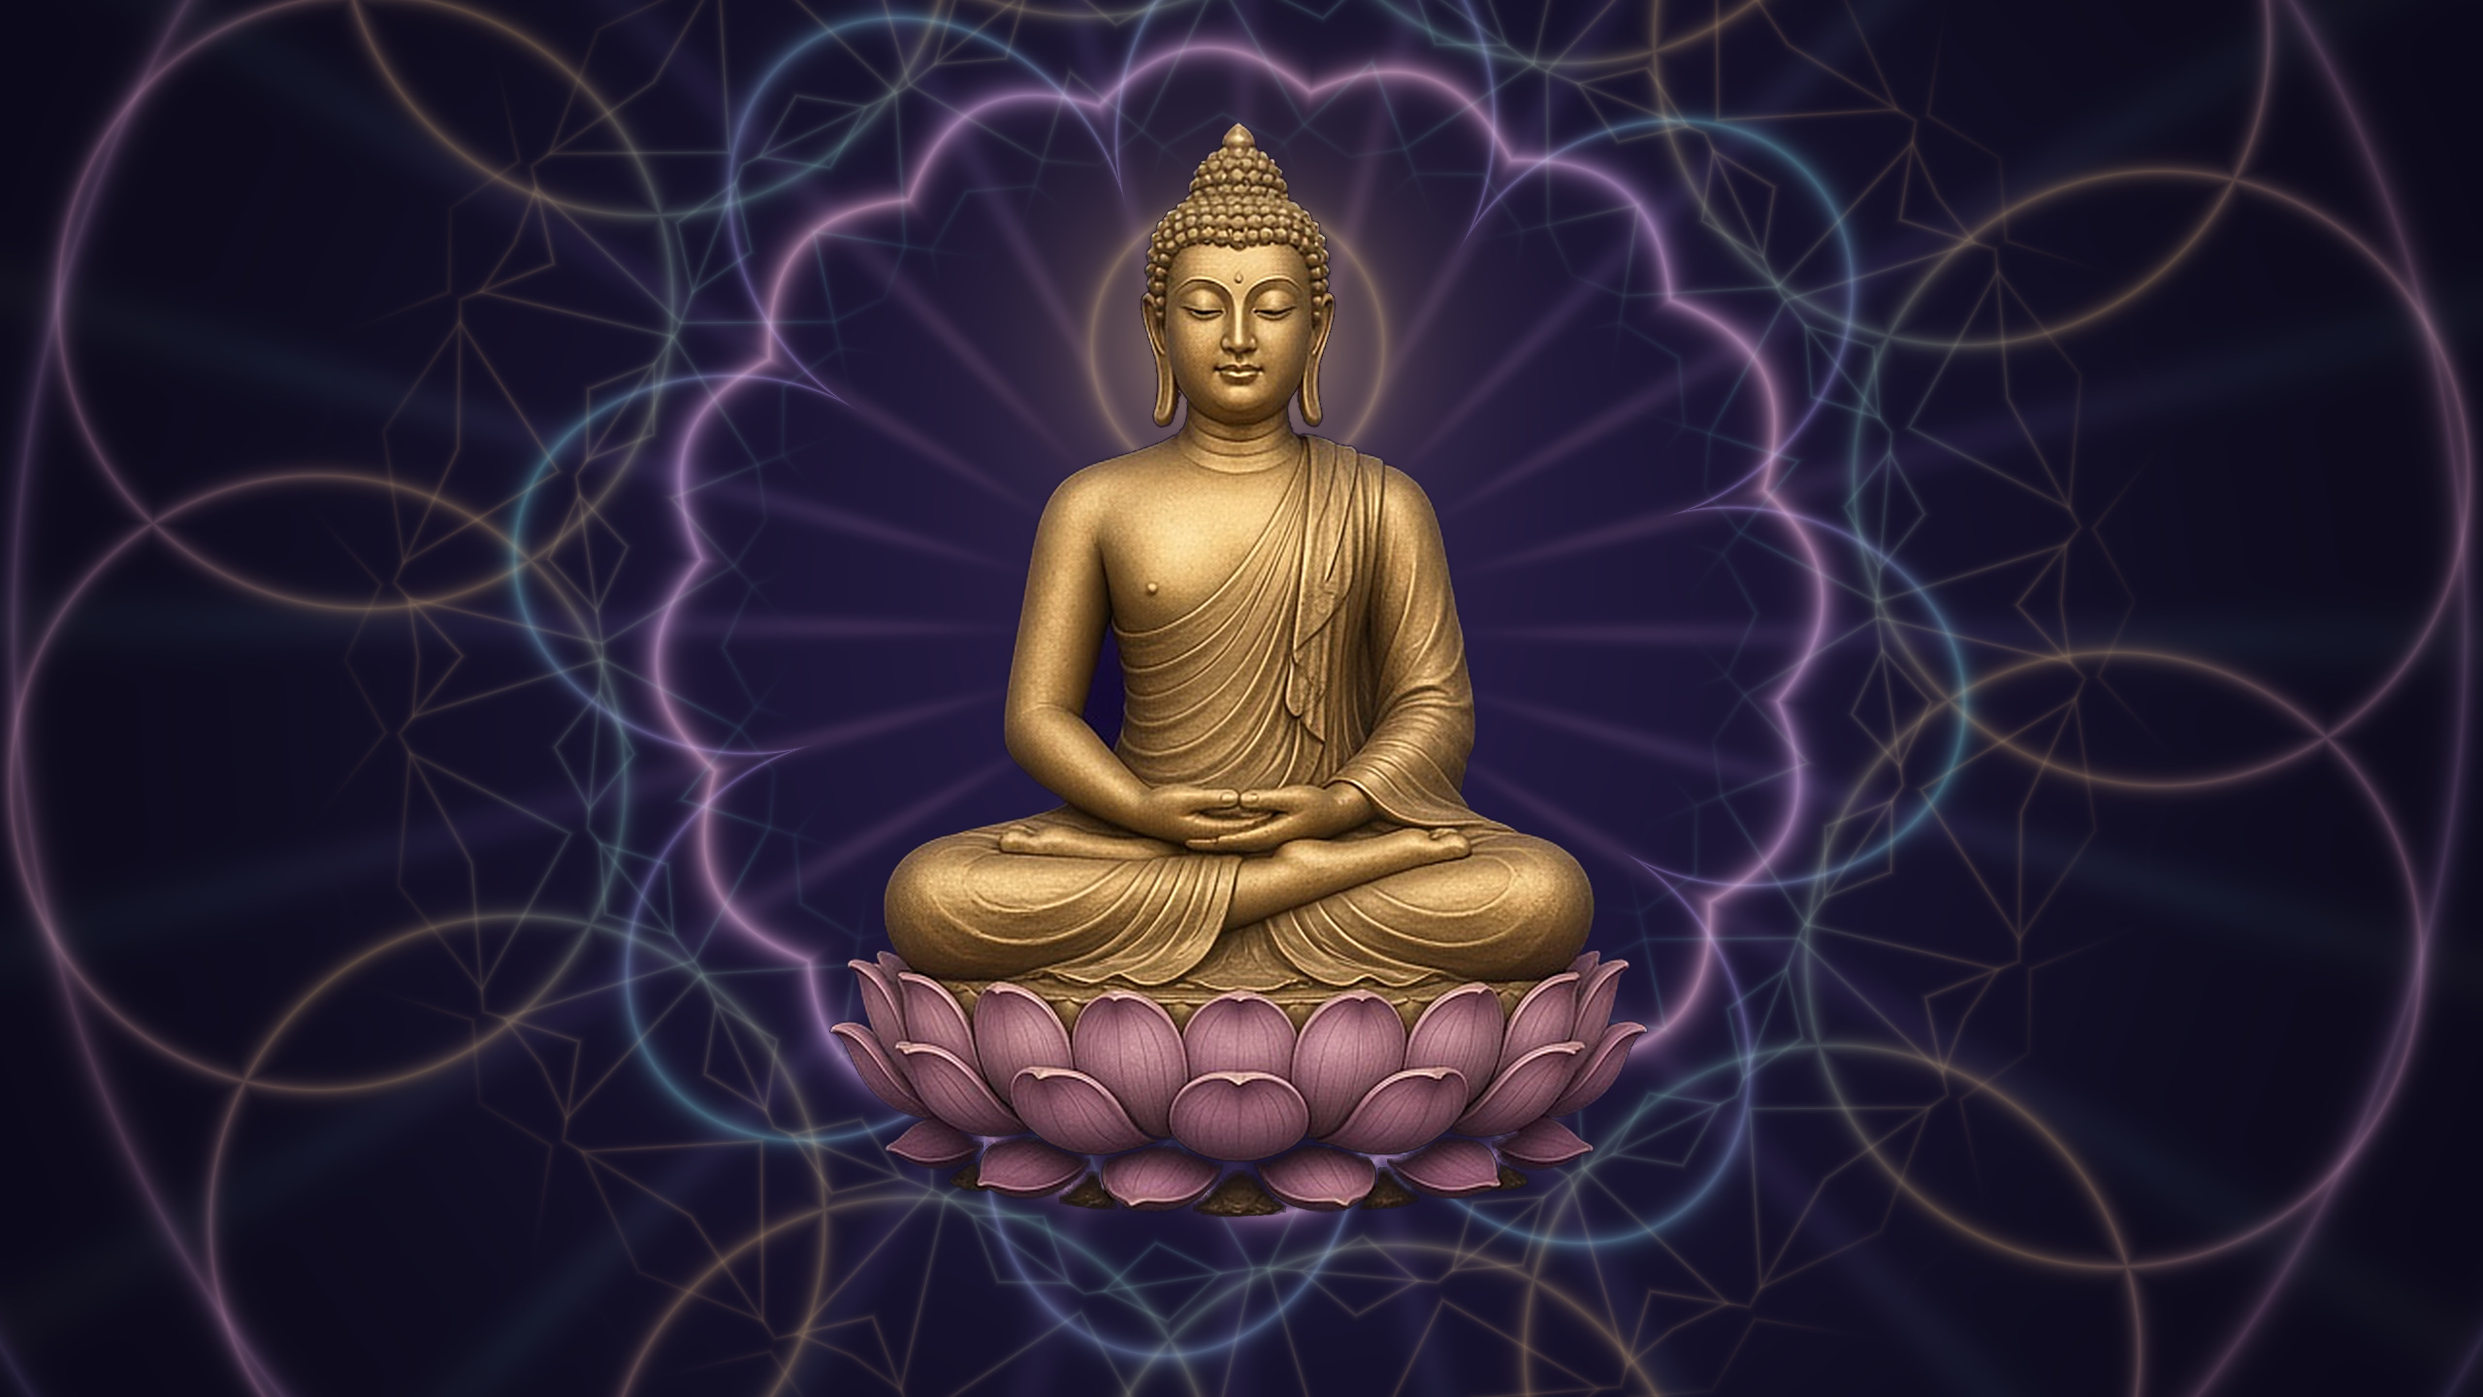
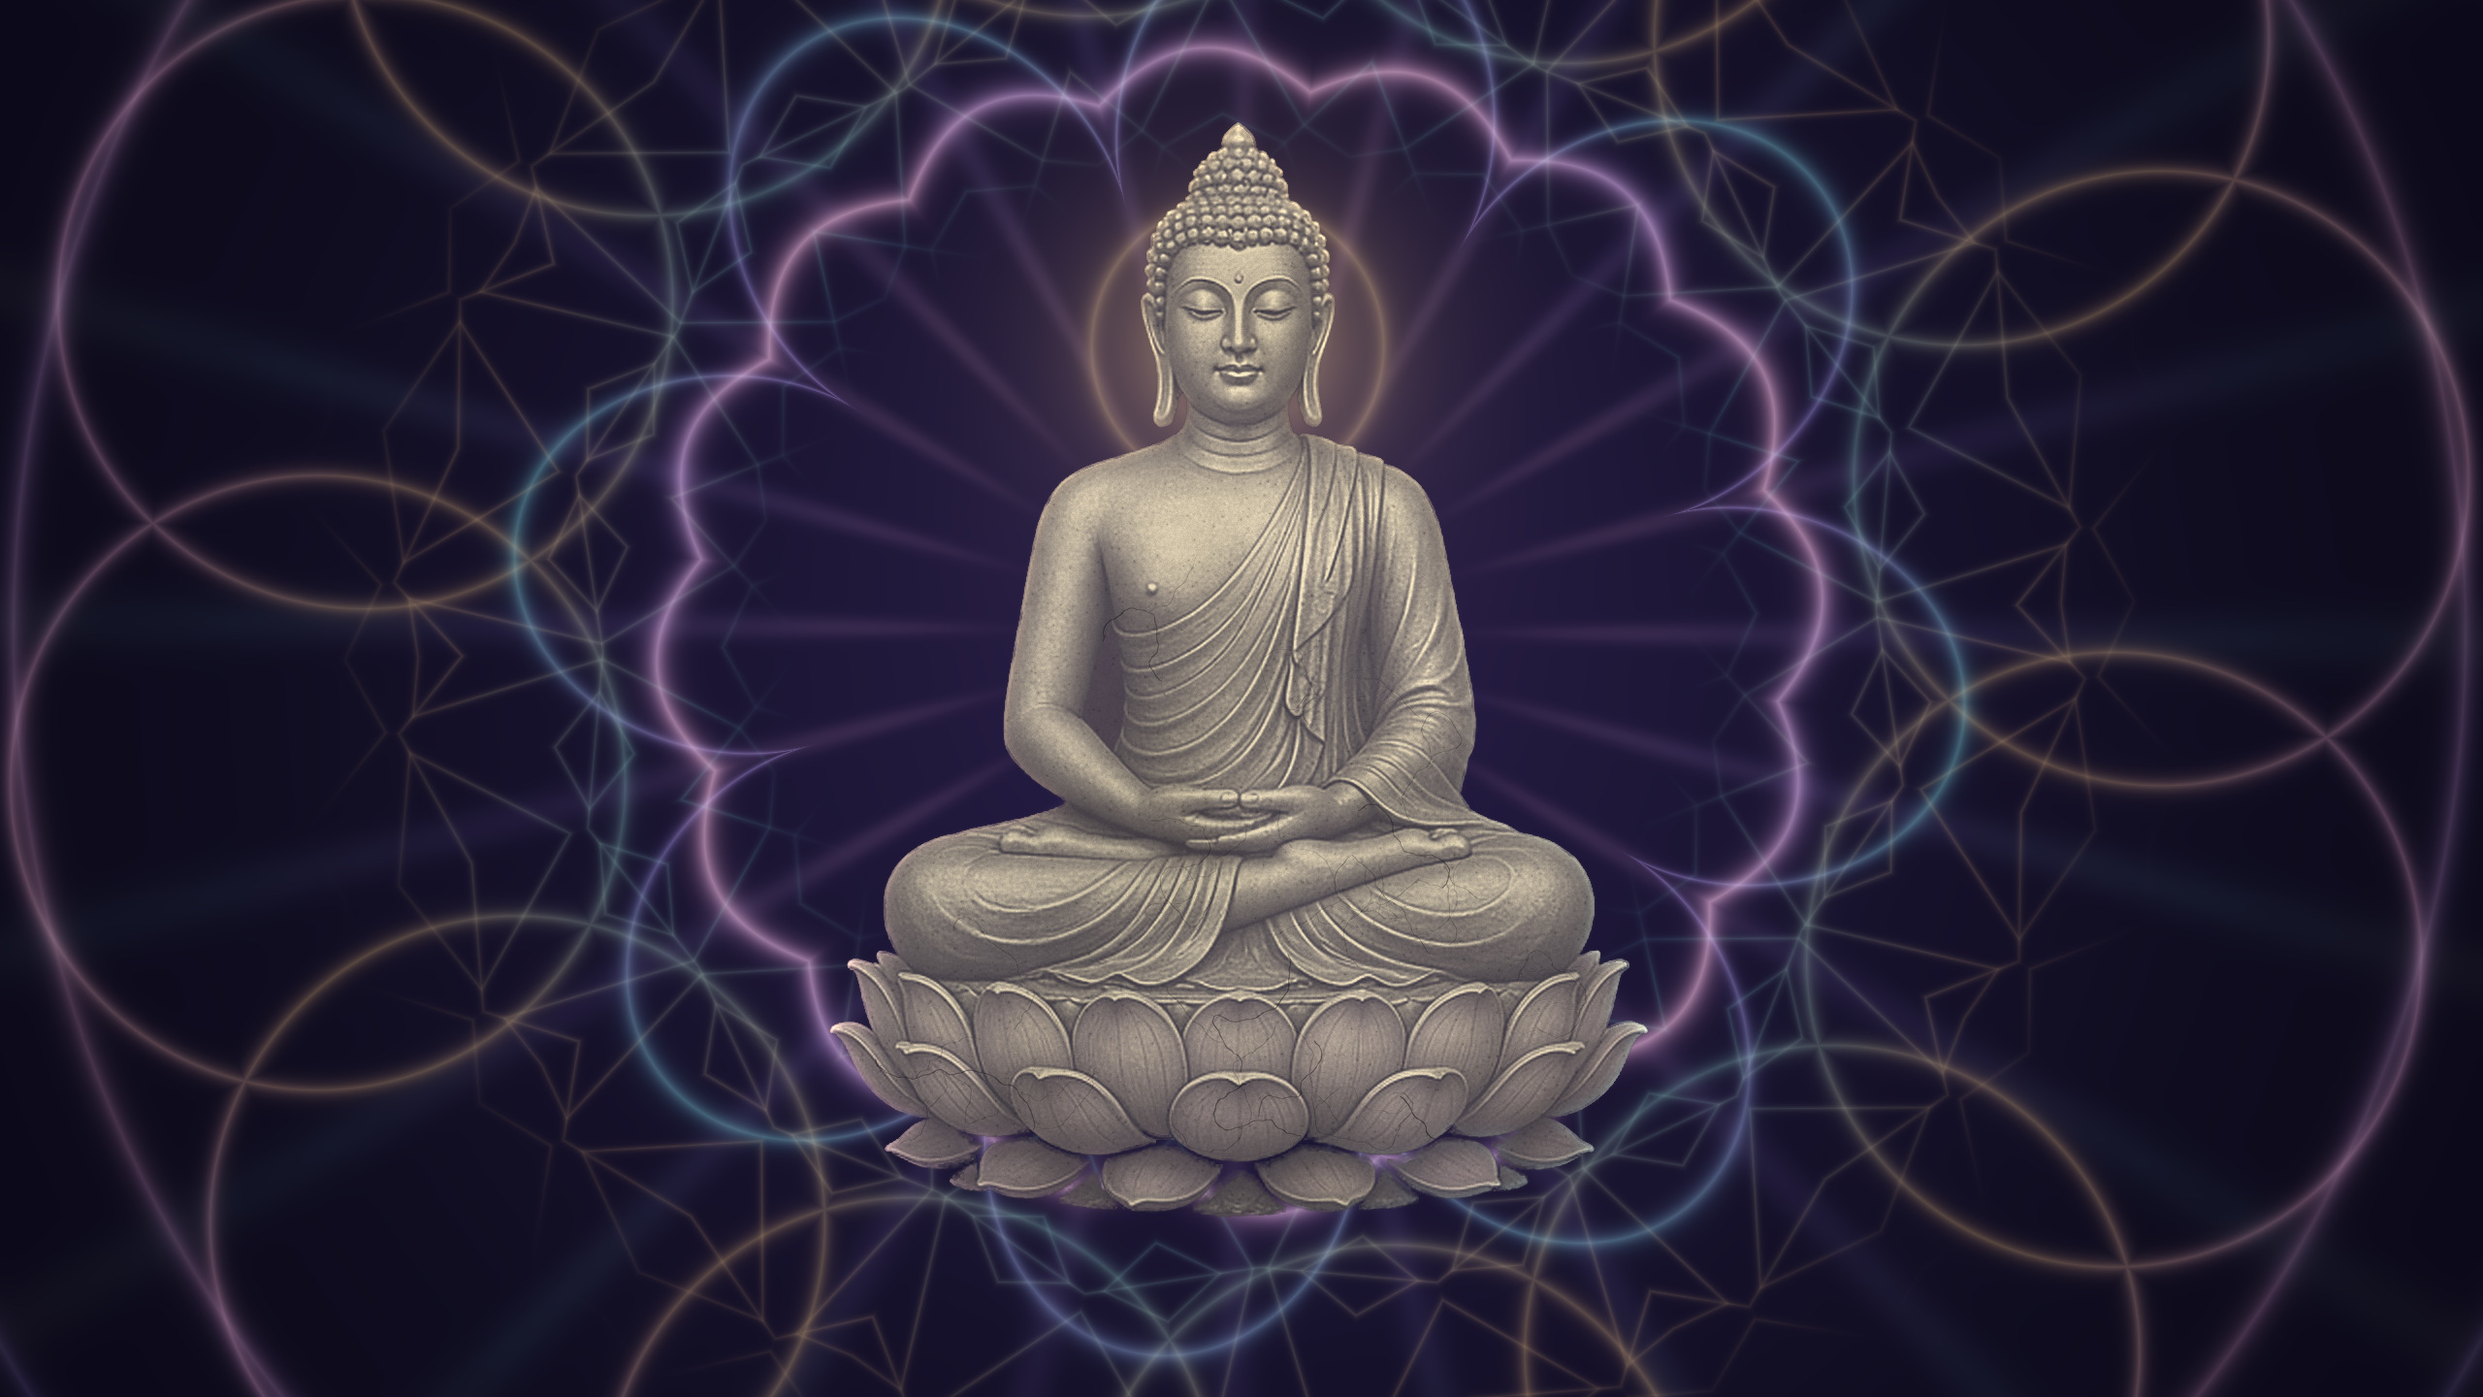
M6: stone Buddha - weathered sandstone with hairline cracks, same silhouette; art pipeline in theme/src

Changed region(s): [[0.3125, 0.0938, 0.6562, 0.875]]

diff --git a/theme/src/stone.py b/theme/src/stone.py
@@ -1,0 +1,110 @@
+# stone.py: turn the gilded Buddha (buddha-figure-gold.png) into a carved,
+# weathered stone statue with subtle hairline cracks, keeping the exact same
+# silhouette/alpha so the aura and layout do not move. Deterministic (seeded).
+import numpy as np
+from PIL import Image, ImageDraw, ImageFilter
+rng = np.random.default_rng(108)
+src = Image.open('buddha-figure-gold.png').convert('RGBA')
+W, H = src.size
+a = np.asarray(src).astype(np.float32) / 255
+rgb, al = a[..., :3], a[..., 3]
+
+def blur(x, r):
+    im = Image.fromarray(np.clip(x * 255, 0, 255).astype(np.uint8))
+    return np.asarray(im.filter(ImageFilter.GaussianBlur(r))).astype(np.float32) / 255
+
+def fbm(oct=6, base=4, seed=0):
+    r = np.random.default_rng(seed); out = np.zeros((H, W), np.float32); amp = 1; tot = 0
+    for o in range(oct):
+        n = base * 2 ** o
+        g = r.random((n * H // W + 2, n + 2)).astype(np.float32)
+        im = Image.fromarray((g * 255).astype(np.uint8)).resize((W, H), Image.BICUBIC)
+        out += amp * np.asarray(im).astype(np.float32) / 255; tot += amp; amp *= 0.55
+    return out / tot
+
+# carving shading from the original luminance (gold is bright: flatten a bit)
+L = rgb @ np.array([0.30, 0.55, 0.15], np.float32)
+L = (L - 0.08) / 0.78
+L = np.clip(L, 0, 1) ** 0.95
+# ambient occlusion: deepen folds/crevices like dust-filled stone
+ao = np.clip(L - blur(L, 6) + 0.5, 0, 1)
+shade = np.clip(0.18 + 0.82 * L, 0, 1) * (0.78 + 0.44 * ao)
+
+# stone albedo: warm grey sandstone, cool indigo in shadow, faint rose in lotus
+lotus = np.clip((rgb[..., 2] - rgb[..., 1]) * 6, 0, 1)        # pink petals have B>G
+lotus = blur(lotus, 2)
+light = np.array([0.82, 0.77, 0.67], np.float32)
+dark = np.array([0.20, 0.18, 0.24], np.float32)
+rose = np.array([0.80, 0.68, 0.70], np.float32)
+hi = (1 - lotus[..., None]) * light + lotus[..., None] * rose
+s = shade[..., None]
+col = dark * (1 - s) + hi * s
+
+# texture: mottling, weathering stains, granite grain
+yy0 = np.linspace(0, 1, H, dtype=np.float32)[:, None]
+mott = fbm(6, 3, 1); stain = fbm(4, 2, 2); fine = fbm(3, 64, 3)
+col *= (0.90 + 0.20 * mott)[..., None]
+col *= (1 - 0.10 * np.clip((stain - 0.55) * 4, 0, 1))[..., None]
+col += np.array([0.02, 0.015, -0.01]) * (stain[..., None] - 0.5)
+grain = rng.normal(0, 1, (H, W)).astype(np.float32)
+grain = 0.6 * grain + 0.4 * (blur((grain * 0.15 + 0.5), 0.8) - 0.5) / 0.15
+col *= (1 + 0.035 * grain + 0.05 * (fine - 0.5))[..., None]
+# weathering: grime gathers toward the base
+col *= (1 - 0.10 * np.clip((yy0 - 0.45) * 1.8, 0, 1) * (0.6 + 0.8 * stain))[..., None]
+# pits: tiny dark erosion spots
+pits = (rng.random((H, W)) > 0.9980).astype(np.float32)
+pits = blur(pits, 0.9) * 2.2
+col *= (1 - 0.45 * np.clip(pits, 0, 1))[..., None]
+
+# hairline cracks: branching random walks, drawn 3x and downsampled
+S = 3
+crack = Image.new('L', (W * S, H * S), 0); cd = ImageDraw.Draw(crack)
+lit = Image.new('L', (W * S, H * S), 0); ld = ImageDraw.Draw(lit)
+solid = al > 0.98
+face = (330, 120, 530, 330)  # keep the face serene: no cracks start there
+def ok(x, y):
+    xi, yi = int(x), int(y)
+    if not (0 <= xi < W and 0 <= yi < H) or not solid[yi, xi]: return False
+    return not (face[0] < xi < face[2] and face[1] < yi < face[3])
+def walk(x, y, ang, n, wdt, depth):
+    pts = [(x, y)]
+    for i in range(n):
+        ang += rng.normal(0, 0.35)
+        st = rng.uniform(2.5, 5.5)
+        nx, ny = x + np.cos(ang) * st, y + np.sin(ang) * st
+        if not ok(nx, ny): break
+        x, y = nx, ny; pts.append((x, y))
+        if depth < 2 and rng.random() < 0.06:
+            walk(x, y, ang + rng.choice([-1, 1]) * rng.uniform(0.5, 1.1), int(n * 0.45), wdt * 0.7, depth + 1)
+    if len(pts) > 2:
+        P = [(px * S, py * S) for px, py in pts]
+        cd.line(P, fill=int(255 * min(1, wdt)), width=max(1, round(wdt * S * 0.9)), joint='curve')
+        ld.line([(px + S * 0.9, py + S * 0.9) for px, py in P], fill=90, width=max(1, round(wdt * S * 0.6)))
+starts = 0; tries = 0
+while starts < 16 and tries < 5000:
+    tries += 1
+    x, y = rng.uniform(0, W), rng.uniform(0, H)
+    if not ok(x, y): continue
+    walk(x, y, rng.uniform(0, 2 * np.pi), int(rng.uniform(25, 70)), rng.uniform(0.7, 1.15), 0)
+    starts += 1
+cr = np.asarray(crack.resize((W, H), Image.LANCZOS)).astype(np.float32) / 255
+lt = np.asarray(lit.resize((W, H), Image.LANCZOS)).astype(np.float32) / 255
+cr = np.clip(cr, 0, 1) * (0.55 + 0.45 * mott)      # cracks fade in and out
+col = col * (1 - 0.55 * cr[..., None]) + 0.10 * lt[..., None] * (1 - cr[..., None])
+
+# soft aura light catching the stone edges: saffron from above, lotus pink + teal
+edge = np.clip(al - blur(al, 7), 0, 1) * 2.2
+yy = np.linspace(0, 1, H, dtype=np.float32)[:, None]
+xx = np.linspace(-1, 1, W, dtype=np.float32)[None, :]
+saff = np.array([0.90, 0.70, 0.35]); pink = np.array([0.91, 0.63, 0.77]); teal = np.array([0.45, 0.78, 0.77])
+tint = saff * (1 - yy)[..., None] + (pink * np.clip(-xx, 0, 1)[..., None] + teal * np.clip(xx, 0, 1)[..., None]) * yy[..., None]
+col += 0.22 * (edge[..., None] * tint)
+col += 0.05 * np.clip(1 - yy * 1.6, 0, 1)[..., None] * saff * s   # faint warm top light
+
+# erosion: slightly chipped silhouette (tiny alpha bites only at the edge)
+chip = fbm(3, 48, 5)
+edge_zone = (al > 0.02) & (al < 0.999) | (blur(al, 1.5) < 0.97)
+al2 = np.where(edge_zone, al * np.clip(1.6 - 1.4 * chip, 0.45, 1), al)
+
+out = np.dstack([np.clip(col, 0, 1), np.clip(al2, 0, 1)])
+Image.fromarray((out * 255 + 0.5).astype(np.uint8), 'RGBA').save('buddha-figure.png', optimize=True)

diff --git a/theme/src/aura.py b/theme/src/aura.py
@@ -1,0 +1,90 @@
+import numpy as np, sys
+from PIL import Image
+TAU=6.283185307
+SAFF=np.array([0.93,0.71,0.38]); PINK=np.array([0.92,0.60,0.76]); VIOL=np.array([0.60,0.50,0.92]); TEAL=np.array([0.38,0.80,0.80])
+def smooth(a,b,x):
+    t=np.clip((x-a)/(b-a),0,1); return t*t*(3-2*t)
+def pal(x):
+    x=(x%1.0)*4.0
+    cs=[SAFF,PINK,VIOL,TEAL,SAFF]
+    i=np.floor(x).astype(int); f=x-i; f=f*f*(3-2*f)
+    out=np.zeros(x.shape+(3,))
+    for k in range(4):
+        m=(i==k)[...,None]
+        out+=m*(cs[k]*(1-f[...,None])+cs[k+1]*f[...,None])
+    return out
+def rot(v,a):
+    c,s=np.cos(a),np.sin(a); return np.stack([c*v[...,0]-s*v[...,1], s*v[...,0]+c*v[...,1]],-1)
+def aura(W,H,t,cx,cy,unit,hx,hy):
+    yy,xx=np.mgrid[0:H,0:W].astype(np.float32)+0.5
+    p=np.stack([(xx-cx)/unit,(yy-cy)/unit],-1)
+    r=np.linalg.norm(p,axis=-1); a=np.arctan2(p[...,1],p[...,0])
+    b=0.5-0.5*np.cos(TAU*t/5.0)           # breath 0..1, 5 s
+    s=1.0+0.045*b
+    # background: deep indigo night, lighter violet bloom around the figure
+    vg=np.linalg.norm(np.stack([(xx-W/2)/H,(yy-H*0.5)/H],-1),axis=-1)
+    bg=np.array([0.071,0.058,0.150])*(1-smooth(0.0,0.95,vg)[...,None])+np.array([0.030,0.026,0.070])*smooth(0.0,0.95,vg)[...,None]
+    bg=bg+np.array([0.10,0.06,0.16])[None,None]*np.exp(-r/0.38)[...,None]*(0.35+0.25*b)
+    rs=r/s
+    rot1=TAU*t/240.0
+    # 1 scalloped lotus ring (16 petals)
+    R1=0.40
+    d1=np.abs(rs-R1*(0.93+0.07*np.abs(np.cos(8*(a+rot1)))))
+    g1=np.exp(-d1*160)*0.9
+    # 2 big petal outlines (8 petals), counter-rotating
+    ang=a-rot1*2
+    pet=np.abs(np.cos(4*ang))**0.6
+    R2=0.50*(0.62+0.38*pet)
+    g2=np.exp(-np.abs(rs-R2)*190)*0.55*smooth(0.25,0.33,rs)
+    # 3 KIFS fractal filigree in an annulus
+    sec=TAU/12.0
+    fa=np.abs(np.mod(a+rot1*0.5,sec)-0.5*sec)
+    q=np.stack([rs*np.cos(fa),rs*np.sin(fa)],-1)*2.4
+    acc=np.zeros_like(r); sc=1.0
+    for i in range(5):
+        q=np.abs(q)-np.array([0.62,0.20+0.03*b])
+        q=rot(q,0.58+0.06*np.sin(TAU*t/60.0))
+        q=q*1.42; sc*=1.42
+        acc+=np.exp(-np.abs(q[...,1])/sc*260)*(0.55**i*0+0.35)
+    env=smooth(0.30,0.40,rs)*(1-smooth(0.52,0.66,rs))
+    g3=acc*env*0.75
+    # 3b flower-of-life garland: 12 circles strung on a ring, breathing outward
+    fsec=TAU/12.0
+    fa2=np.mod(a-rot1*1.5,fsec)-0.5*fsec
+    RF=0.64*s; rc=0.22
+    gf=np.zeros_like(r)
+    for off in (0.0,):
+        q2=np.stack([r*np.cos(fa2+off),r*np.sin(fa2+off)],-1)
+        for k in (-1,0,1):
+            cc=np.array([RF*np.cos(k*fsec),RF*np.sin(k*fsec)])
+            dd=np.abs(np.linalg.norm(q2-cc,axis=-1)-rc)
+            gf=np.maximum(gf,np.exp(-dd*220))
+    g3=g3+gf*0.45*(0.75+0.25*b)
+    # 4 soft rays
+    g4=((0.5+0.5*np.cos(24*a-rot1*3))**10)*np.exp(-rs*2.2)*0.18*smooth(0.12,0.3,rs)
+    # 5 outer breathing ripples
+    g5=(np.exp(-np.abs(rs-0.84)*150)*0.30+np.exp(-np.abs(rs-0.98)*160)*0.18)*(0.6+0.4*b)
+    # 6 nimbus behind the head
+    hd=np.linalg.norm(np.stack([(xx-hx)/unit,(yy-hy)/unit],-1),axis=-1)
+    g6=np.exp(-np.maximum(hd-0.06,0)/0.05)*0.45*(0.7+0.3*b)+np.exp(-np.abs(hd-0.10*s)*200)*0.35
+    hue=rs*0.9-t/80.0+0.05*np.sin(a*6+TAU*t/40.0)
+    col=bg.copy()
+    inten=0.55+0.45*b
+    col+= pal(hue)*(g1*inten)[...,None]*0.75
+    col+= pal(hue+0.25)*(g2*inten)[...,None]*0.7
+    col+= pal(hue+0.5)*(g3*inten)[...,None]*0.6
+    col+= pal(hue+0.1)*(g4)[...,None]
+    col+= pal(hue+0.6)*(g5)[...,None]*0.7
+    col+= SAFF*(g6*inten)[...,None]*0.8
+    # soft tonemap so nothing clips harshly
+    col=1-np.exp(-col*1.4)
+    return np.clip(col,0,1)
+if __name__=='__main__':
+    W,H=int(sys.argv[1]),int(sys.argv[2]); t=float(sys.argv[3]); out=sys.argv[4]
+    k=H/1440.0; ox=(W-2560*k)/2
+    c=aura(W,H,t,ox+1278*k,650*k,1440*k,ox+1276*k,357*k)
+    img=Image.fromarray((c*255+0.5).astype(np.uint8))
+    fig=Image.open('buddha-figure.png'); fj=eval(open('figure.json').read())
+    fs=fig.resize((round(fj['w']*k),round(fj['h']*k)),Image.LANCZOS)
+    img.paste(fs,(round(ox+fj['x']*k),round(fj['y']*k)),fs)
+    img.save(out)

diff --git a/theme/src/mask.py b/theme/src/mask.py
@@ -1,0 +1,39 @@
+from PIL import Image, ImageFilter, ImageDraw
+import numpy as np
+src = Image.open('buddha-src.jpg').convert('RGB')
+S = 2
+big = src.resize((src.width*S, src.height*S), Image.LANCZOS).filter(ImageFilter.UnsharpMask(radius=2.2, percent=60, threshold=2))
+a = np.asarray(big).astype(np.float32)
+R,G,B = a[...,0],a[...,1],a[...,2]
+f = R + G - 0.8*B
+alpha = np.clip((f - 12.0)/(40.0-12.0), 0, 1)
+hard = (alpha > 0.5)
+# flood fill background from border to fill holes
+m = Image.fromarray((hard*255).astype(np.uint8))
+# keep largest component + fill holes: floodfill the inverse from corner
+inv = Image.fromarray(((~hard)*255).astype(np.uint8)).copy()
+ImageDraw.floodfill(inv, (0,0), 128)
+inv_a = np.asarray(inv)
+holes = inv_a == 255   # background regions not connected to border = holes
+solid = hard | holes
+# remove small specks: open via min/max filter
+sm = Image.fromarray((solid*255).astype(np.uint8)).filter(ImageFilter.MinFilter(5)).filter(ImageFilter.MaxFilter(5))
+solid = np.asarray(sm) > 127
+# soft edge: blend hard solid with soft alpha near edges
+soft = np.asarray(Image.fromarray((solid*255).astype(np.uint8)).filter(ImageFilter.MinFilter(3)).filter(ImageFilter.GaussianBlur(1.6))).astype(np.float32)/255
+final_a = np.maximum(soft, alpha*np.asarray(Image.fromarray((solid*255).astype(np.uint8)).filter(ImageFilter.MaxFilter(5))).astype(np.float32)/255)
+final_a = np.clip(final_a,0,1)
+ys,xs = np.where(final_a > 0.02)
+y0,y1,x0,x1 = ys.min(),ys.max(),xs.min(),xs.max()
+print('bbox', x0,y0,x1,y1, 'size', big.size)
+pad=8
+x0=max(0,x0-pad);y0=max(0,y0-pad);x1=min(big.width-1,x1+pad);y1=min(big.height-1,y1+pad)
+# un-premultiply fringe: replace edge colour bg tint toward figure-ish by keeping rgb as is
+rgba = np.dstack([a, final_a*255]).astype(np.uint8)
+out = Image.fromarray(rgba,'RGBA').crop((x0,y0,x1+1,y1+1))
+out.save('buddha-figure-gold.png', optimize=True)
+big.save('buddha-up.png')
+np.save('alpha.npy', final_a)
+open('figure.json','w').write('{"canvasW":%d,"canvasH":%d,"x":%d,"y":%d,"w":%d,"h":%d}'%(big.width,big.height,x0,y0,x1-x0+1,y1-y0+1))
+# preview of mask on magenta
+prev = Image.new('RGB', out.size, (255,0,255)); prev.paste(out,(0,0),out); prev.resize((out.width//2,out.height//2)).save('mask-preview.png')

diff --git a/theme/src/render_assets.py b/theme/src/render_assets.py
@@ -1,0 +1,26 @@
+# Asset pipeline (run from theme/src): python3 mask.py; python3 stone.py; python3 render_assets.py
+import numpy as np, json
+from PIL import Image
+import aura as A
+fig=Image.open('buddha-figure.png'); fj=json.load(open('figure.json'))
+def scene(W,H,t,glow=1.0):
+    k=H/1440.0; ox=(W-2560*k)/2
+    c=A.aura(W,H,t,ox+1278*k,650*k,1440*k,ox+1276*k,357*k) if glow else None
+    img=Image.fromarray((c*255+0.5).astype(np.uint8))
+    fs=fig.resize((round(fj['w']*k),round(fj['h']*k)),Image.LANCZOS)
+    img.paste(fs,(round(ox+fj['x']*k),round(fj['y']*k)),fs)
+    return img
+import os; os.makedirs('../backgrounds',exist_ok=True)
+scene(2560,1440,2.5).save('../backgrounds/1-buddha-aura.jpg',quality=93,subsampling=0)
+scene(2560,1440,2.5).resize((1800,1012),Image.LANCZOS).save('../preview.png',optimize=True)
+# night: aura almost gone (only the nimbus and sky), for a quieter static choice
+_a=A.aura
+def quiet(W,H,t,cx,cy,unit,hx,hy):
+    return _a(W,H,t,cx,cy,unit,hx,hy)
+scene(2560,1440,0.0).save('../backgrounds/2-buddha-exhale.jpg',quality=93,subsampling=0)
+# plymouth unlock emblem + its preview
+h=523; s=h/fj['h']; em=fig.resize((round(fj['w']*s),h),Image.LANCZOS)
+un=Image.new('RGBA',(1108,523),(0,0,0,0)); un.paste(em,((1108-em.width)//2,0),em); un.save('../unlock.png',optimize=True)
+pu=Image.new('RGB',(1920,1080),(21,18,43)); pu.paste(un,((1920-1108)//2,(1080-523)//2-60),un); pu.save('../preview-unlock.png',optimize=True)
+os.makedirs('../aura',exist_ok=True)
+fig.save('../aura/buddha.png',optimize=True)
